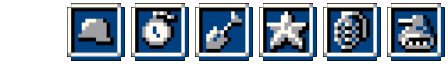
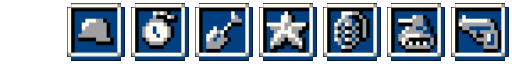
Change assets

diff --git a/src/app/resources.js b/src/app/resources.js
@@ -5,7 +5,15 @@ import tank_4 from '../assets/tank_4.png'
 import enemy_1 from '../assets/enemy_1.png'
 import enemy_2 from '../assets/enemy_2.png'
 import enemy_3 from '../assets/enemy_3.png'
-import enemy_4 from '../assets/enemy_4.png'
+import enemy_4_grade_1 from '../assets/enemy_4_grade_1.png'
+import enemy_4_grade_2 from '../assets/enemy_4_grade_2.png'
+import enemy_4_grade_3 from '../assets/enemy_4_grade_3.png'
+import enemy_4_grade_4 from '../assets/enemy_4_grade_4.png'
+import enemy_1_bonus from '../assets/enemy_1_bonus.png'
+import enemy_2_bonus from '../assets/enemy_2_bonus.png'
+import enemy_3_bonus from '../assets/enemy_3_bonus.png'
+import enemy_4_bonus from '../assets/enemy_4_bonus.png'
+import bonuses from '../assets/bonuses.png'
 import bricks from '../assets/bricks.png'
 import armor from '../assets/armor.png'
 import tree from '../assets/tree.png'
@@ -30,7 +38,15 @@ export const resources = {
   enemy_1,
   enemy_2,
   enemy_3,
-  enemy_4,
+  enemy_4_grade_1,
+  enemy_4_grade_2,
+  enemy_4_grade_3,
+  enemy_4_grade_4,
+  enemy_1_bonus,
+  enemy_2_bonus,
+  enemy_3_bonus,
+  enemy_4_bonus,
+  bonuses,
   bricks,
   armor,
   tree,

diff --git a/src/app/enemies/enemy-factory.js b/src/app/enemies/enemy-factory.js
@@ -33,10 +33,10 @@ export class EnemyFactory {
       }
     }
     this.enemiesSprites = {
-      0: ['enemy_1'],
-      1: ['enemy_2'],
-      2: ['enemy_3'],
-      3: ['enemy_4']
+      0: ['enemy_1', 'enemy_1_bonus'],
+      1: ['enemy_2', 'enemy_2_bonus'],
+      2: ['enemy_3', 'enemy_3_bonus'],
+      3: ['enemy_4_grade_4', 'enemy_4_grade_3', 'enemy_4_grade_2', 'enemy_4_grade_1', 'enemy_4_bonus']
     }
     this.bonusTanks = [3, 10, 17]
     this.levelEnemiesSequence = {
